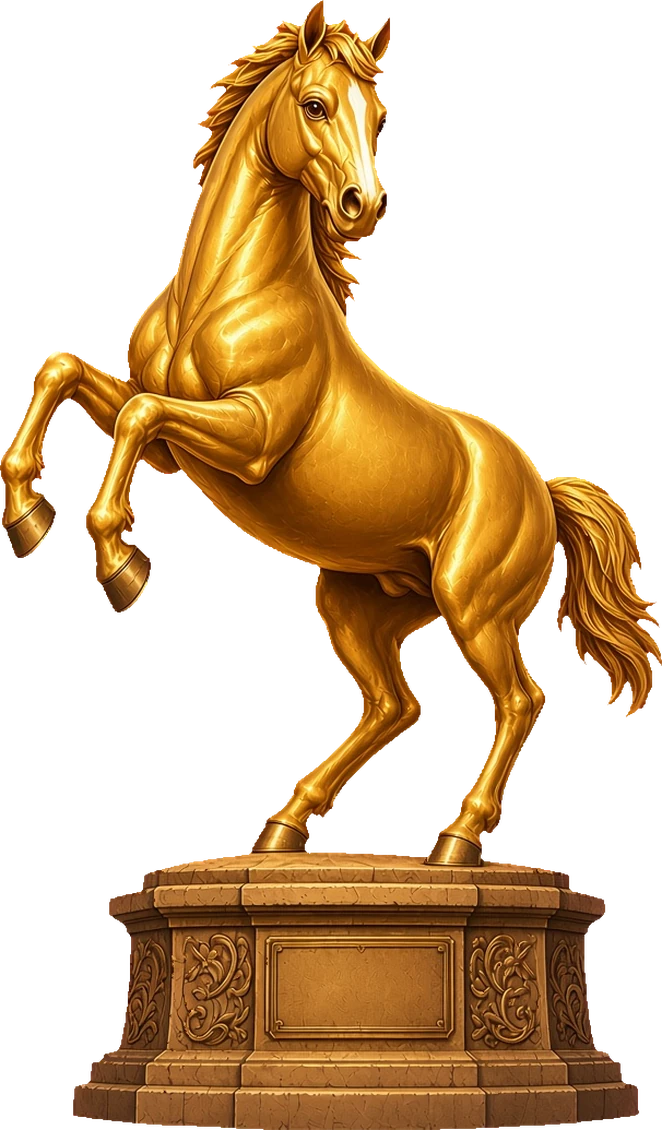
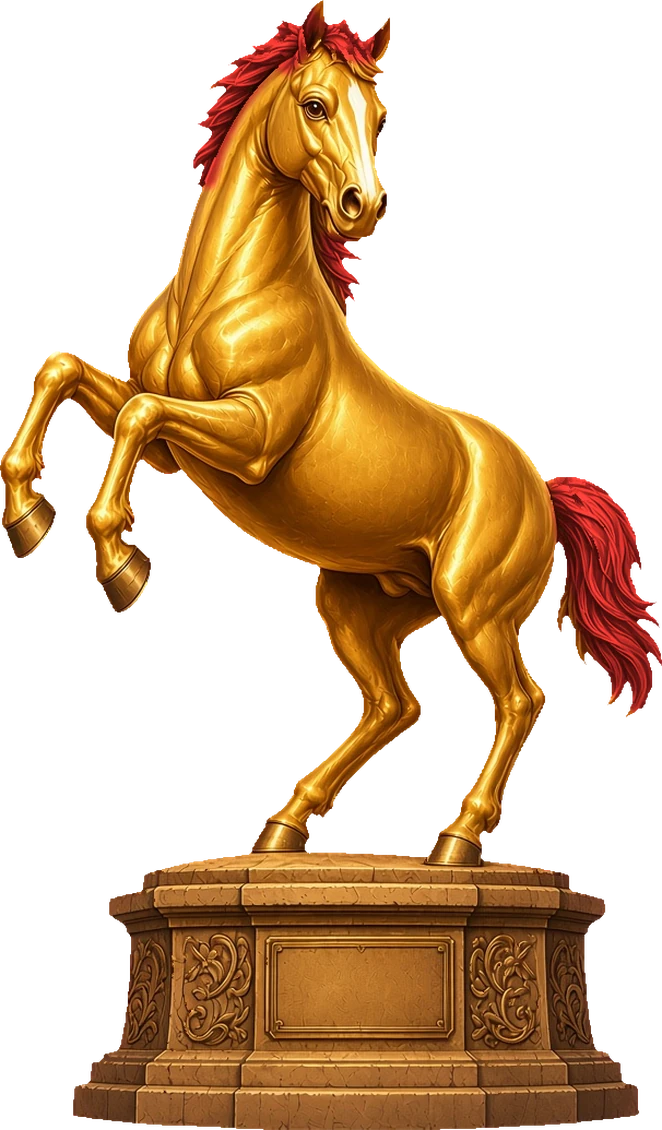
Gold Rowdy statue: metallic red mane and tail

Changed region(s): [[0.8157, 0.4027, 1.0, 0.6504], [0.2719, 0.0, 0.574, 0.1858], [0.4834, 0.1858, 0.5438, 0.2788]]

diff --git a/fire-horse-plaza/index.html b/fire-horse-plaza/index.html
@@ -34,7 +34,7 @@
           <span class="stack">
             <img id="img-stone" src="art/hero-statue.webp?v=rowdy2" alt="Rowdy, a giant bronze horse statue on a stone pedestal" width="806" height="1372">
             <img id="img-fire" src="art/hero-fire.webp?v=rowdy2" alt="" aria-hidden="true" width="806" height="1372">
-            <img id="img-gold" src="art/hero-gold.webp?v=rowdy2" alt="" aria-hidden="true" width="806" height="1372">
+            <img id="img-gold" src="art/hero-gold.webp?v=redmane1" alt="" aria-hidden="true" width="806" height="1372">
           </span>
           <span class="pp-bubble" aria-hidden="true">Light the fire &#128293;</span>
         </button>
@@ -64,11 +64,11 @@
 
       <section class="panel feature left" id="gold" data-time="night">
         <div class="card"><span class="tag n">The finale</span><h2>Revealed in Gold</h2><p>The fire shoots into the sky. When it burns out, Rowdy stands there shining in gold.</p></div>
-        <div class="art" data-speed="-0.08"><img src="art/gold.webp?v=rowdy2" alt="Rowdy the horse statue gleaming in gold on its stone pedestal"></div>
+        <div class="art" data-speed="-0.08"><img src="art/gold.webp?v=redmane1" alt="Rowdy the horse statue gleaming in gold on its stone pedestal"></div>
       </section>
 
       <section class="panel cta" id="tickets">
-        <img class="cta-horse" src="art/gold.webp?v=rowdy2" alt="" aria-hidden="true">
+        <img class="cta-horse" src="art/gold.webp?v=redmane1" alt="" aria-hidden="true">
         <h2>Be there when Rowdy burns</h2>
         <a class="big-cta" href="#reserve" data-reserve>Get your tickets now!</a>
         <p class="fine">Ticket sales open soon. Save your spot and we'll let you know first.</p>
